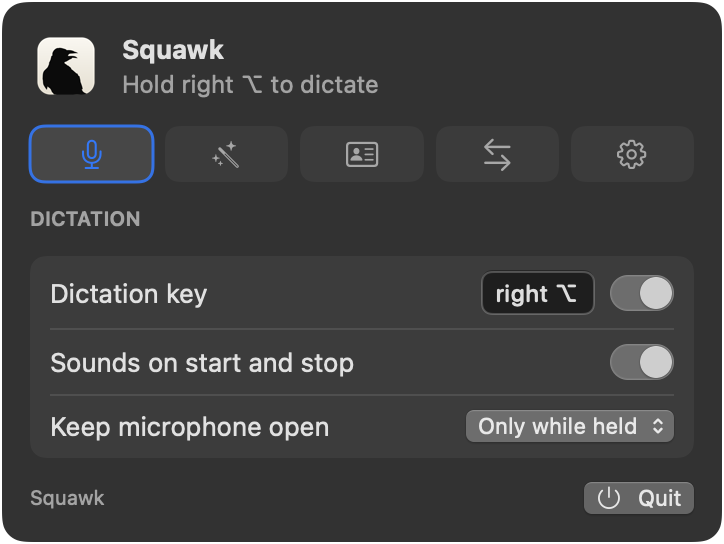
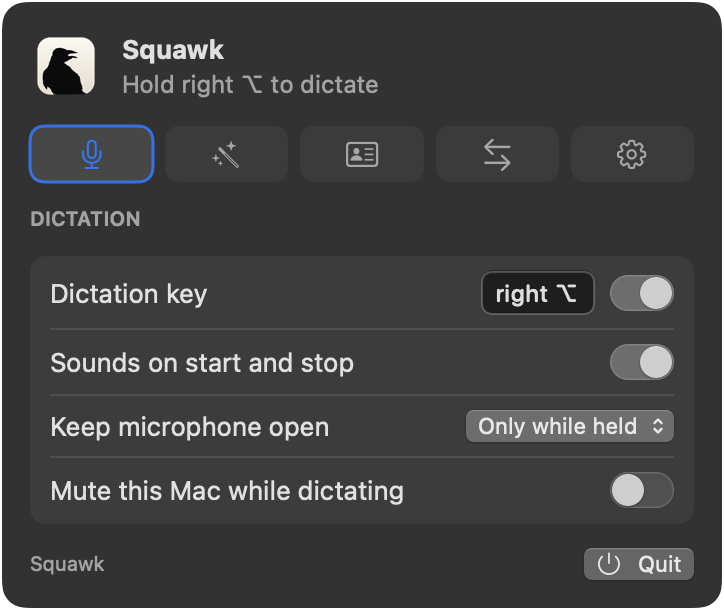
Mute the Mac while dictating, in place of echo cancellation
The goal has not changed: a video or music coming out of the speakers
should not end up in the dictation. The previous commit tried macOS
voice processing for that and it failed in the real app, not only from
the command line. With it on, every dictation took 1.3 to 1.7 s to open
the microphone, playback in other apps stuttered and swung in volume
each time the audio device was reconfigured, and three dictations in a
row recorded no samples at all. That code is removed.

What replaces it is blunt and predictable: an off-by-default setting
that mutes the default output device while the key is held and unmutes
it when the recording ends. Playback keeps running, so a video does not
lose its place; it is just silent for the length of a sentence. It uses
the device's mute control and not its volume, so if anything ever went
wrong the volume keys would undo it, and it never unmutes output that
was already muted when the dictation began.

The start sound plays before the mute lands and the stop sound after it
lifts, which delays the stop sound by the length of the recording tail
(150 to 600 ms). Output is also restored on discard, on microphone
errors, when dictation is switched off and when the app quits.

The cost against real echo cancellation is obvious: you cannot listen
and dictate at once. Outputs with no mute control, as some HDMI devices
have none, are left alone and the setting does nothing there.

Not yet tested with a voice over playback; that needs a person at the
[…]

diff --git a/Sources/Squawk/AppController.swift b/Sources/Squawk/AppController.swift
@@ -27,6 +27,7 @@ final class AppController: NSObject, NSApplicationDelegate {
     private lazy var hotkeys = HotkeyMonitor(binding: Preferences.binding)
     private let recorder = Recorder()
     private let overlay = ListeningOverlay()
+    private let muter = OutputMuter()
     private let transcriber = Transcriber()
     private var gesture = HoldGesture()
     private var status = Status.preparing
@@ -79,6 +80,7 @@ final class AppController: NSObject, NSApplicationDelegate {
             tail.heard(rms: rms, at: ProcessInfo.processInfo.systemUptime)
         }
         recorder.onError = { [unowned self] error in
+            muter.restore()
             overlay.hide()
             gesture = HoldGesture()
             show(.problem("Microphone: \(error.localizedDescription)"))
@@ -97,6 +99,11 @@ final class AppController: NSObject, NSApplicationDelegate {
         updateTimer = .scheduledTimer(withTimeInterval: 24 * 60 * 60, repeats: true) { [unowned self] _ in
             checkForUpdate()
         }
+    }
+
+    func applicationWillTerminate(_ notification: Notification) {
+        // Never leave the Mac silent because Squawk quit mid-dictation.
+        muter.restore()
     }
 
     private func checkForUpdate() {
@@ -210,8 +217,7 @@ final class AppController: NSObject, NSApplicationDelegate {
         DispatchQueue.main.async { [self] in
             hotkeys.binding = Preferences.binding
             applyPause()
-            recorder.setReadiness(
-                Preferences.microphone, enabled: Preferences.isEnabled, cancelEcho: Preferences.cancelEcho)
+            recorder.setReadiness(Preferences.microphone, enabled: Preferences.isEnabled)
             if !Preferences.checkForUpdates {
                 panel.update = nil
                 if panel.modelProgress == .idle { panel.modelUpdate = nil }
@@ -226,6 +232,7 @@ final class AppController: NSObject, NSApplicationDelegate {
         hotkeys.isPaused = paused
         guard paused else { return }
         // Whatever was in flight when dictation was switched off is dropped.
+        muter.restore()
         recorder.cancel()
         overlay.hide()
         gesture = HoldGesture()
@@ -245,12 +252,20 @@ final class AppController: NSObject, NSApplicationDelegate {
             overlay.show()
             CATransaction.flush()
             playSound("Tink")
+            if Preferences.muteOutput {
+                // After the start sound has had time to be heard. The check
+                // keeps a quick tap from muting after it has already ended.
+                DispatchQueue.main.asyncAfter(deadline: .now() + 0.18) { [unowned self] in
+                    if case .recording = status { muter.mute() }
+                }
+            }
             tail = SpeechTail()
             recorder.start()
             unloadTimer?.invalidate()
             // Warm the models while the user is still talking.
             Task { try? await transcriber.prepare(names: Preferences.names) }
         case .discard:
+            muter.restore()
             recorder.cancel()
             overlay.hide()
             show(.idle)
@@ -261,13 +276,18 @@ final class AppController: NSObject, NSApplicationDelegate {
             // mid-word comes back from the model empty or as a wrong word.
             show(.working)
             overlay.hide()
-            playSound("Pop")
+            // While muted the stop sound waits for the tail to end, or it
+            // would not be heard.
+            let wasMuting = Preferences.muteOutput
+            if !wasMuting { playSound("Pop") }
             let releasedAt = ProcessInfo.processInfo.systemUptime
             let work = DispatchWorkItem { [unowned self] in
                 pendingFinish = nil
                 let waited = ProcessInfo.processInfo.systemUptime - releasedAt
                 log.notice("tail: \(Int(waited * 1000), privacy: .public) ms")
                 finish()
+                muter.restore()
+                if wasMuting { playSound("Pop") }
             }
             pendingFinish = work
             finishWhenQuiet(work, releasedAt: releasedAt)

diff --git a/Sources/Squawk/Recorder.swift b/Sources/Squawk/Recorder.swift
@@ -52,22 +52,13 @@ final class Recorder {
     private var engine: AVAudioEngine?
     private var sampleRate = 0.0
     private var readiness = MicrophoneReadiness.onDemand
-    private var cancelsEcho = false
     private var cooldown = 0
     private var configurationObserver: NSObjectProtocol?
 
-    /// `cancelEcho` has macOS subtract whatever this Mac is playing from the
-    /// microphone signal, so a video or music in the room is not transcribed.
-    func setReadiness(_ readiness: MicrophoneReadiness, enabled: Bool, cancelEcho: Bool) {
+    func setReadiness(_ readiness: MicrophoneReadiness, enabled: Bool) {
         queue.async { [self] in
             self.readiness = readiness
             let recording = buffers.withLock { $0.recording }
-            if cancelEcho != cancelsEcho {
-                cancelsEcho = cancelEcho
-                // Voice processing can only be switched on a stopped engine.
-                // Mid-dictation the change waits for the next open.
-                if !recording { close() }
-            }
             if readiness == .always, enabled {
                 openIfNeeded()
             } else if !recording, readiness != .warm || !enabled {
@@ -129,18 +120,6 @@ final class Recorder {
         guard engine == nil else { return }
         let began = ProcessInfo.processInfo.systemUptime
         let engine = AVAudioEngine()
-        if cancelsEcho {
-            do {
-                try engine.inputNode.setVoiceProcessingEnabled(true)
-                // Voice processing turns other audio down while it runs. This
-                // is the least it can be told to; it cannot be told not to.
-                engine.inputNode.voiceProcessingOtherAudioDuckingConfiguration = .init(
-                    enableAdvancedDucking: false, duckingLevel: .min)
-            } catch {
-                // Some input devices do not support it. Record without.
-                log.error("echo cancellation unavailable: \(error.localizedDescription, privacy: .public)")
-            }
-        }
         let format = engine.inputNode.outputFormat(forBus: 0)
         sampleRate = format.sampleRate
         let buffers = buffers
@@ -173,7 +152,7 @@ final class Recorder {
         }
         self.engine = engine
         log.notice(
-            "microphone open: \(format.channelCount, privacy: .public) ch at \(Int(format.sampleRate), privacy: .public) Hz, echo cancellation \(self.cancelsEcho ? "on" : "off", privacy: .public), took \(Int((ProcessInfo.processInfo.systemUptime - began) * 1000), privacy: .public) ms")
+            "microphone open: \(format.channelCount, privacy: .public) ch at \(Int(format.sampleRate), privacy: .public) Hz, took \(Int((ProcessInfo.processInfo.systemUptime - began) * 1000), privacy: .public) ms")
         // A new input device (AirPods connecting) invalidates the running
         // engine. Drop it; the next start opens the new device.
         configurationObserver = NotificationCenter.default.addObserver(

diff --git a/Sources/Squawk/OutputMuter.swift b/Sources/Squawk/OutputMuter.swift
@@ -1,0 +1,60 @@
+// Silences the Mac's audio output for the length of a dictation, so a video
+// or music coming out of the speakers is not transcribed along with the
+// voice. Playback itself keeps running; it is just not heard for a moment.
+//
+// This is deliberately not echo cancellation. macOS voice processing was
+// tried first: it took about 1.5 s to start on every dictation, made
+// playback in other apps stutter and swing in volume, and often delivered
+// no microphone audio at all.
+
+import CoreAudio
+import Foundation
+
+final class OutputMuter {
+    /// The device this muter silenced, so the same one is restored even if
+    /// the default output changes mid-dictation.
+    private var muted: AudioDeviceID?
+
+    /// Does nothing if output is already muted, by the user or by an earlier
+    /// call: restoring must never unmute something the user muted.
+    func mute() {
+        guard muted == nil, let device = Self.defaultOutput(), Self.isMuted(device) == false else { return }
+        if Self.setMuted(true, on: device) { muted = device }
+    }
+
+    func restore() {
+        guard let device = muted else { return }
+        muted = nil
+        Self.setMuted(false, on: device)
+    }
+
+    private static func defaultOutput() -> AudioDeviceID? {
+        var address = AudioObjectPropertyAddress(
+            mSelector: kAudioHardwarePropertyDefaultOutputDevice, mScope: kAudioObjectPropertyScopeGlobal,
+            mElement: kAudioObjectPropertyElementMain)
+        var device = AudioDeviceID(kAudioObjectUnknown)
+        var size = UInt32(MemoryLayout<AudioDeviceID>.size)
+        let status = AudioObjectGetPropertyData(AudioObjectID(kAudioObjectSystemObject), &address, 0, nil, &size, &device)
+        return status == noErr && device != kAudioObjectUnknown ? device : nil
+    }
+
+    private static var muteAddress = AudioObjectPropertyAddress(
+        mSelector: kAudioDevicePropertyMute, mScope: kAudioDevicePropertyScopeOutput,
+        mElement: kAudioObjectPropertyElementMain)
+
+    /// Nil when the device has no mute control, as some HDMI outputs do not.
+    private static func isMuted(_ device: AudioDeviceID) -> Bool? {
+        var value: UInt32 = 0
+        var size = UInt32(MemoryLayout<UInt32>.size)
+        guard AudioObjectHasProperty(device, &muteAddress),
+            AudioObjectGetPropertyData(device, &muteAddress, 0, nil, &size, &value) == noErr
+        else { return nil }
+        return value != 0
+    }
+
+    @discardableResult
+    private static func setMuted(_ muted: Bool, on device: AudioDeviceID) -> Bool {
+        var value: UInt32 = muted ? 1 : 0
+        return AudioObjectSetPropertyData(device, &muteAddress, 0, nil, UInt32(MemoryLayout<UInt32>.size), &value) == noErr
+    }
+}

diff --git a/Sources/Squawk/Settings.swift b/Sources/Squawk/Settings.swift
@@ -15,7 +15,7 @@ enum Preferences {
     static let endWithPeriodKey = "endWithPeriod"
     static let playSoundsKey = "playSounds"
     static let microphoneKey = "microphone"
-    static let cancelEchoKey = "cancelEcho"
+    static let muteOutputKey = "muteOutput"
     static let replacementsKey = "replacements"
     static let unloadMinutesKey = "unloadMinutes"
     static let checkForUpdatesKey = "checkForUpdates"
@@ -64,8 +64,8 @@ enum Preferences {
         defaults.string(forKey: microphoneKey).flatMap(MicrophoneReadiness.init) ?? .onDemand
     }
 
-    static var cancelEcho: Bool {
-        defaults.bool(forKey: cancelEchoKey)
+    static var muteOutput: Bool {
+        defaults.bool(forKey: muteOutputKey)
     }
 
     static var playSounds: Bool {
@@ -130,7 +130,7 @@ struct PanelView: View {
     @AppStorage(Preferences.endWithPeriodKey) private var endWithPeriod = true
     @AppStorage(Preferences.playSoundsKey) private var playSounds = true
     @AppStorage(Preferences.microphoneKey) private var microphone = MicrophoneReadiness.onDemand
-    @AppStorage(Preferences.cancelEchoKey) private var cancelEcho = false
+    @AppStorage(Preferences.muteOutputKey) private var muteOutput = false
     @AppStorage(Preferences.replacementsKey) private var replacements = ""
     @AppStorage(Preferences.unloadMinutesKey) private var unloadMinutes = 10
     @AppStorage(Preferences.checkForUpdatesKey) private var checkForUpdates = true
@@ -224,8 +224,8 @@ struct PanelView: View {
                     .help("Opening the microphone swallows the first word. Keeping it open avoids that; macOS shows its microphone indicator while it is open, and Bluetooth headsets drop to call quality.")
                 }
                 Divider()
-                Row("Ignore audio this Mac is playing") { Switch(isOn: $cancelEcho) }
-                    .help("Keeps a video or music coming from the speakers out of your dictation. macOS turns other audio down slightly while you dictate. Not needed with headphones.")
+                Row("Mute this Mac while dictating") { Switch(isOn: $muteOutput) }
+                    .help("Silences the speakers while the key is held, so a video or music is not transcribed along with your voice. Playback continues; you just do not hear it. Not needed with headphones.")
             }
     }
 

diff --git a/Sources/Squawk/main.swift b/Sources/Squawk/main.swift
@@ -6,8 +6,7 @@
 // disk image, with the same signature and version checks as a real update.
 // `--check-model` reports whether Hugging Face has newer weights than the
 // ones on disk, and `--install-model <revision>` installs that revision.
-// `--listen <seconds>` records from the microphone and prints the transcript;
-// add `--cancel-echo` to compare with and without echo cancellation.
+// `--listen <seconds>` records from the microphone and prints the transcript.
 // `--render-panes <folder>` writes a PNG of each pane of the panel, which is
 // how the README screenshots are made (see scripts/screenshots.sh).
 
@@ -92,7 +91,7 @@ if let seconds = values(after: "--listen").first.flatMap(Double.init) {
         FileHandle.standardError.write(Data("squawk: \(error.localizedDescription)\n".utf8))
         exit(1)
     }
-    recorder.setReadiness(.onDemand, enabled: true, cancelEcho: arguments.contains("--cancel-echo"))
+    recorder.setReadiness(.onDemand, enabled: true)
     Task {
         do {
             let started = Date()

diff --git a/README.md b/README.md
@@ -81,7 +81,7 @@ memory pressure without swapping, and Squawk unloads the model itself after ten
 idle minutes (configurable). The app is 20 MB on disk and the download is
 10 MB.
 
-Three details cost some effort and are worth knowing about.
+Four details cost some effort and are worth knowing about.
 
 The microphone takes 130 to 400 ms to open, long enough to swallow your first
 word. By default Squawk accepts that, and opens the microphone only while the
@@ -94,6 +94,13 @@ a small buffer in memory that is constantly overwritten.
 People release the key while the last word is still coming out, and audio cut
 mid-word makes the model return nothing. So recording runs on after release
 until your voice goes quiet, between 150 and 600 ms.
+
+A microphone hears the room, including whatever the Mac itself is playing, and
+a video's dialogue will be transcribed along with your voice. "Mute this Mac
+while dictating" silences the output while the key is held; playback carries
+on, you just do not hear it for a moment. macOS's echo cancellation was tried
+first and dropped: it took about 1.5 s to start on each dictation and made
+playback in other apps stutter. With headphones none of this arises.
 
 Text is inserted by putting it on the clipboard and sending Cmd+V, then
 restoring what was on the clipboard before. That works in nearly every app,
